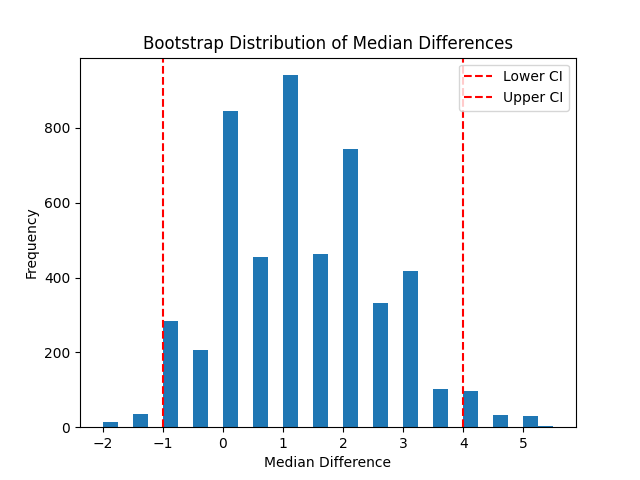
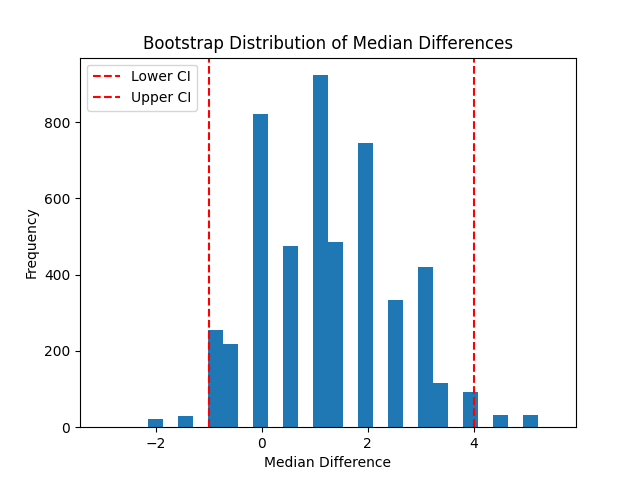
Ready for Review

diff --git a/README.md b/README.md
@@ -7,12 +7,11 @@ This project investigates whether airline safety improved after the year 2000 co
 The goal is to use statistical methods such as permutation testing and bootstrapping to evaluate whether airline safety has improved over time.
 
 ## Status
-Project setup in progress.
+Completed. Analysis, visualization, permutation testing, and bootstrap uncertainty estimation have been finalized.
 
 
 ## Project Scaffold Table
 
-## Project Scaffold Table
 
 | Element | Your Plan |
 |--------|---------|
@@ -39,7 +38,11 @@ I used the FiveThirtyEight airline safety dataset, where each row represents an 
 The data shows that airline incidents decreased after 2000. The average number of incidents dropped from about 7.18 before 2000 to about 4.13 after 2000. Visualizations also show reduced variability and fewer extreme cases in the later period.
 
 ### How certain are you about those results?
-Using a permutation test, I found a p-value of 0.0182, which provides statistical evidence that the decrease in incidents is unlikely due to chance.
+Using a permutation test, I found a p-value of 0.0206 (2.06%), meaning we would observe a difference this large or larger only about 2.06% of the time due to random chance. This provides statistical evidence that the decrease in incidents is unlikely due to random chance.
+
+However, a bootstrap confidence interval for the median difference ranged from approximately -1.0 to 4.0, which includes zero. This indicates some uncertainty when using the median.
+
+This is because the Central Limit Theorem applies to means, but not directly to medians, especially with skewed data.
 
 However, a bootstrap confidence interval for the median difference ranged from approximately -1.0 to 4.0, which includes zero. This indicates some uncertainty when using the median, although the overall trend still suggests improvement.
 
